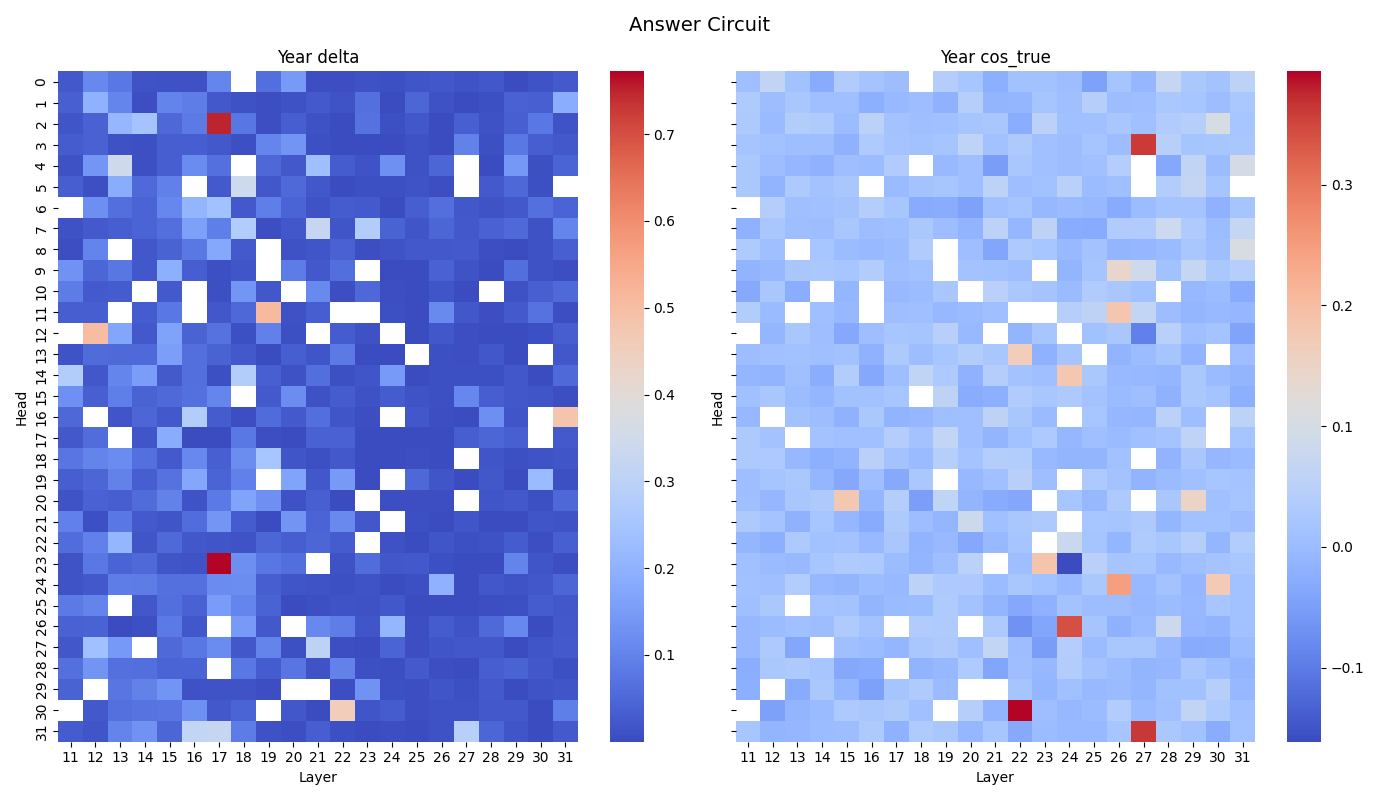
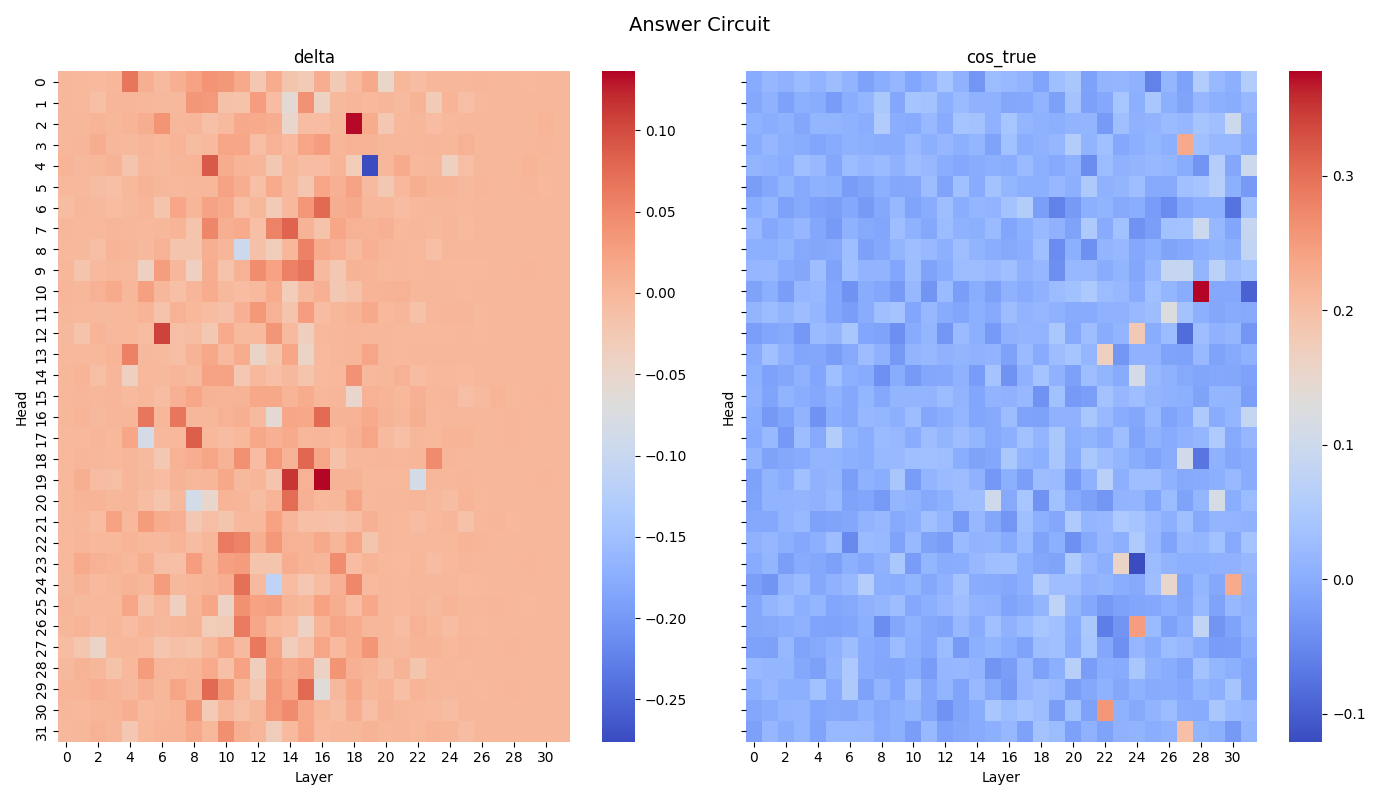
compare_head causality

diff --git a/answer_head.py b/answer_head.py
@@ -18,6 +18,7 @@ def find_answer_circuit(
         false_label: str,
         answer_pos: int | None = None,
         head_limit: int | None = None,
+        yes_no_pos=(37, 41),
         device='cuda'
 ):
 
@@ -42,7 +43,8 @@ def find_answer_circuit(
         n_heads = model.cfg.n_heads if head_limit is None else head_limit
         for head_id in range(n_heads):
             
-            def patch(result, hook, head_idx=head_id, tok_pos=answer_pos):
+            def patch(result, hook, head_idx=head_id, 
+                      tok_pos=yes_no_pos[0] if true_label == "Yes" else yes_no_pos[1]):
                 result = result.clone()
                 result[:, tok_pos, head_idx, :] = 0
                 return result
@@ -57,8 +59,8 @@ def find_answer_circuit(
             patched_score = get_metric(patched_logits)
             base_score = get_metric(base_logits)
             delta = base_score - patched_score
-            if delta <= 0:
-                continue
+            # if delta <= 0:
+            #     continue
 
             attn = base_cache[f"blocks.{layer_id}.attn.hook_pattern"][0, head_id, answer_pos]
             
@@ -84,7 +86,7 @@ def find_answer_circuit(
 
     return results
 
-def plot_answer_head(df, metrics=["delta", "cos_true"]):
+def plot_answer_head(df, metrics=["delta", "cos_true"], ret_dir='circuit'):
 
     fig, axes = plt.subplots(1, 2, figsize=(14, 8), sharey=True)
     fig.suptitle("Answer Circuit", fontsize=14)
@@ -95,12 +97,12 @@ def plot_answer_head(df, metrics=["delta", "cos_true"]):
         mdf = df.pivot(index='head_id', columns='layer_id', values=metric)
         sns.heatmap(mdf, ax=ax, cmap="coolwarm", cbar=True)
 
-        ax.set_title(f"Year {metric}")
+        ax.set_title(f"{metric}")
         ax.set_xlabel("Layer")
         ax.set_ylabel("Head")
     plt.tight_layout()
-    os.makedirs("circuit", exist_ok=True)
-    plt.savefig(f"circuit/answer_head.png")
+    os.makedirs(ret_dir, exist_ok=True)
+    plt.savefig(f"{ret_dir}/answer_head.png")
 
 
 def count_attn_tokens(df):
@@ -126,9 +128,10 @@ def count_attn_tokens(df):
     
     return pd.DataFrame(data)
 
-def plot_attn_tokens(df):
+def plot_attn_tokens(df, ret_dir='circuit'):
 
-    pivot = df.pivot_table(index="token", columns=["layer_id", "head_id"], values="count", fill_value=0)
+    pivot = df.pivot_table(index="token", columns=["layer_id", "head_id"], 
+                           values="count", fill_value=0)
 
     pivot.columns = [f"L{l}-H{h}" for l, h in pivot.columns]
 
@@ -142,17 +145,53 @@ def plot_attn_tokens(df):
     plt.xlabel("Layer - Head")
     plt.ylabel("Token")
     plt.tight_layout()
-    plt.savefig("circuit/attn_tokens.png")
+    os.makedirs(ret_dir, exist_ok=True)
+    plt.savefig(f"{ret_dir}/attn_tokens.png")
+
+def visualize_answer_heads(min_year=None, max_year=None, sample_size=None, condition=False, 
+              ret_dir='circuit'):
+    if ret_dir is None:
+        ret_dir = os.path.join("circuit", f'{min_year}_{max_year}_{sample_size}{"_differ_in_first_digit" if condition else ""}')
+    with open(f"{ret_dir}/answer_head.csv", "r") as f:
+        df = pd.read_csv(f)
+    attn_freq_df = count_attn_tokens(df)
+        
+    merged_df = pd.merge(attn_freq_df, df, on=["layer_id", "head_id"], how="left")
+    plot_attn_tokens(merged_df, ret_dir=ret_dir)
+    
+    df = df.groupby(['layer_id', 'head_id']).agg({"cos_true": "mean", "delta": "mean"}).reset_index()
+    plot_answer_head(df, metrics=["delta", "cos_true"], ret_dir=ret_dir)
+    
+    print('==== Answer Circuit ====')
+    print("\n===== Top heads writing answer residual (cos_true desc) =====")
+    cos_df = df.sort_values("cos_true", ascending=False).head(15).reset_index(drop=True)
+    print(cos_df)
+    merged_df = pd.merge(attn_freq_df, cos_df, on=["layer_id", "head_id"], how="right")
+    merged_df = merged_df.sort_values("cos_true", ascending=False)
+    print(merged_df)
+    print("\n===== Top heads writing answer residual (delta desc)=====")
+    delta_df = df.sort_values("delta", ascending=False).head(15).reset_index(drop=True)
+    print(delta_df)
+    merged_df = pd.merge(attn_freq_df, delta_df, on=["layer_id", "head_id"], how="right")
+    merged_df = merged_df.sort_values("delta", ascending=False)
+    print(merged_df)
 
 if __name__ == "__main__":
     model = HookedTransformer.from_pretrained("microsoft/Phi-3-mini-4k-instruct")
     model.cfg.use_attn_result = True
     model.set_use_attn_result(True)
     model = model.to('cuda')
-    prompts, labels = load_data("dataset_qa_yesno_150_1800_2020.csv", sample_size=10)
+    
+    min_year, max_year = 1800, 2020
+    sample_size = 10
+    condition = False
+    ret_dir = os.path.join("circuit", f'{min_year}_{max_year}_{sample_size}{"_differ_in_first_digit" if condition else ""}')   
+    
+    csv_path = f"dataset_qa_yesno_150_{min_year}_{max_year}{'_True' if condition else ''}.csv"
+    prompts, labels = load_data(csv_path, sample_size=sample_size)
     
     results = pd.DataFrame()
-    layers_ids_yn=range(11, 32)
+    layers_ids_yn=range(32)
     results = []
     ret_df = pd.DataFrame()
     for i, (prompt, label) in tqdm(enumerate(zip(prompts, labels)), total=len(prompts)):
@@ -164,16 +203,8 @@ if __name__ == "__main__":
             false_label="Yes" if label == "No" else "No",
         )
     ret_df = pd.DataFrame(results)
-    os.makedirs("circuit", exist_ok=True)
-    ret_df.to_csv("circuit/answer_head.csv", index=False)
-    with open("circuit/answer_head.csv", "r") as f:
-        df = pd.read_csv(f)
-    df = df.groupby(['layer_id', 'head_id']).agg({"cos_true": "mean", "delta": "mean"}).reset_index()
-    plot_answer_head(df, metrics=["delta", "cos_true"])
-    print('==== Answer Circuit ====')
-    print("\n===== Top heads writing answer residual (cos_true desc) =====")
-    cos_df = df.sort_values("cos_true", ascending=False).head(5).reset_index(drop=True)
-    print(cos_df.head())
-    print("\n===== Top heads writing answer residual (delta desc)=====")
-    delta_df = df.sort_values("delta", ascending=False).head(5).reset_index(drop=True)
-    print(delta_df.head())
+    os.makedirs(ret_dir, exist_ok=True)
+    ret_df.to_csv(f"{ret_dir}/answer_head.csv", index=False)
+    
+    # PRINT RESULTS
+    visualize_answer_heads(min_year, max_year, sample_size, condition, ret_dir=ret_dir)

diff --git a/print_all_result.py b/print_all_result.py
@@ -1,6 +1,6 @@
 import pandas as pd
 from causal import plot_head_causal, plot_layer_causal
-from answer_head import plot_answer_head, plot_attn_tokens, count_attn_tokens
+from answer_head import visualize_answer_heads
 from collections import Counter
 import pandas as pd
 
@@ -17,30 +17,12 @@ if __name__ == "__main__":
     # with open("causal/head_causal/results.csv", "r") as f:
     #     results = pd.read_csv(f)
     # plot_head_causal(results)
-
-    print('==== Answer Circuit ====')
-    with open("circuit/answer_head.csv", "r") as f:
-        df = pd.read_csv(f)
-    attn_freq_df = count_attn_tokens(df)
-    df = df.groupby(['layer_id', 'head_id']).agg({"cos_true": "mean", "delta": "mean"}).reset_index()
-    merged_df = pd.merge(attn_freq_df, df, on=["layer_id", "head_id"], how="left")
-    plot_attn_tokens(merged_df)
-    plot_answer_head(df, metrics=["delta", "cos_true"])
-    pd.set_option('display.max_rows', None)
-    pd.set_option('display.max_columns', None)
-
-    print("\n===== Top heads writing answer residual (cos_true desc) =====")
-    cos_df = df.sort_values("cos_true", ascending=False).head(15).reset_index(drop=True)
-    print(cos_df)
-    merged_df = pd.merge(attn_freq_df, cos_df, on=["layer_id", "head_id"], how="right")
-    merged_df = merged_df.sort_values("cos_true", ascending=False)
-    print(merged_df)
-    print("\n===== Top heads writing answer residual (delta desc)=====")
-    delta_df = df.sort_values("delta", ascending=False).head(15).reset_index(drop=True)
-    print(delta_df)
-    merged_df = pd.merge(attn_freq_df, delta_df, on=["layer_id", "head_id"], how="right")
-    merged_df = merged_df.sort_values("delta", ascending=False)
-    print(merged_df)
+    
+    visualize_answer_heads(min_year=1800, max_year=2020, sample_size=10, condition=False, ret_dir='circuit')
+    # visualize_answer_heads(min_year=1800, max_year=2020, sample_size=10, condition=True, ret_dir=None)
+    
+    
+    
     # print('==== Compare Circuit ====')
     # with open("circuit/compare_circuit.csv", "r") as f:
     #     df = pd.read_csv(f)
